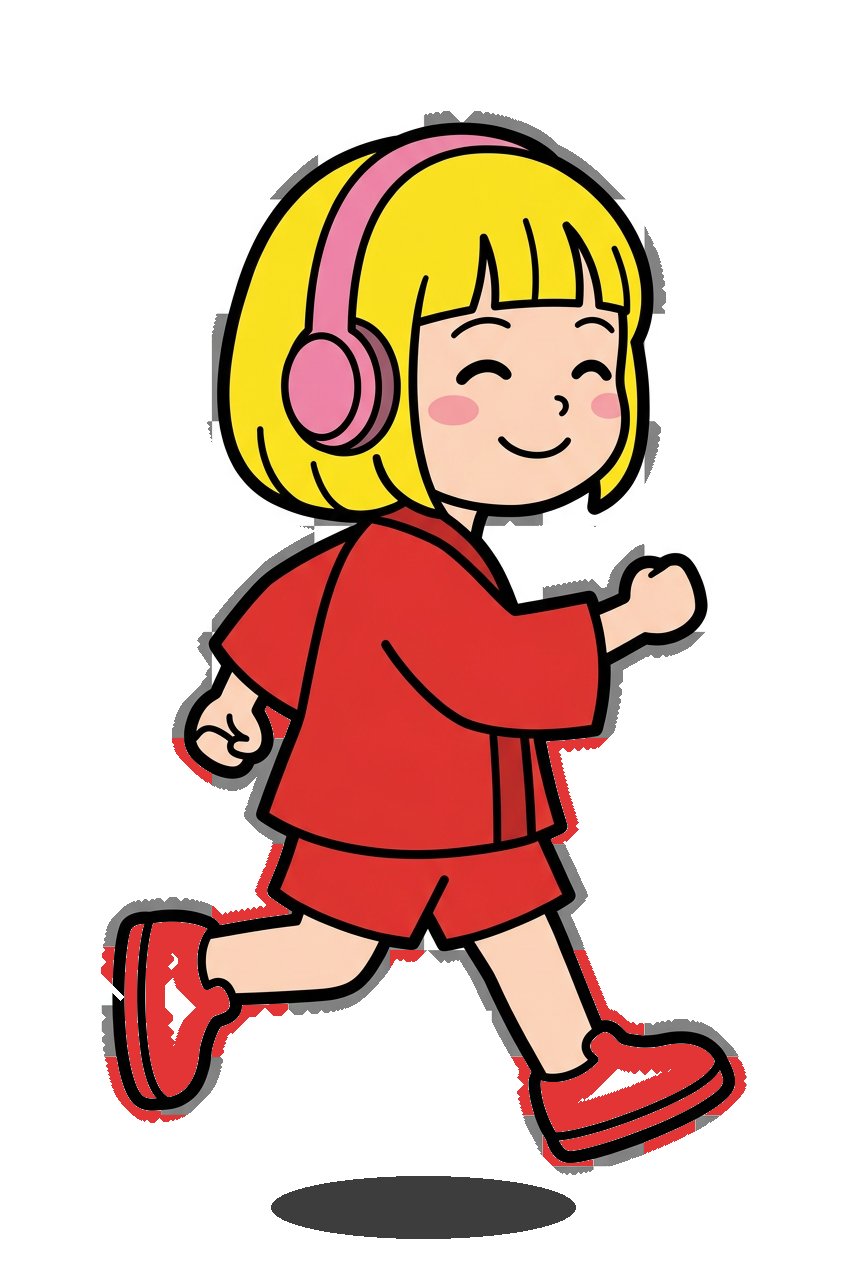
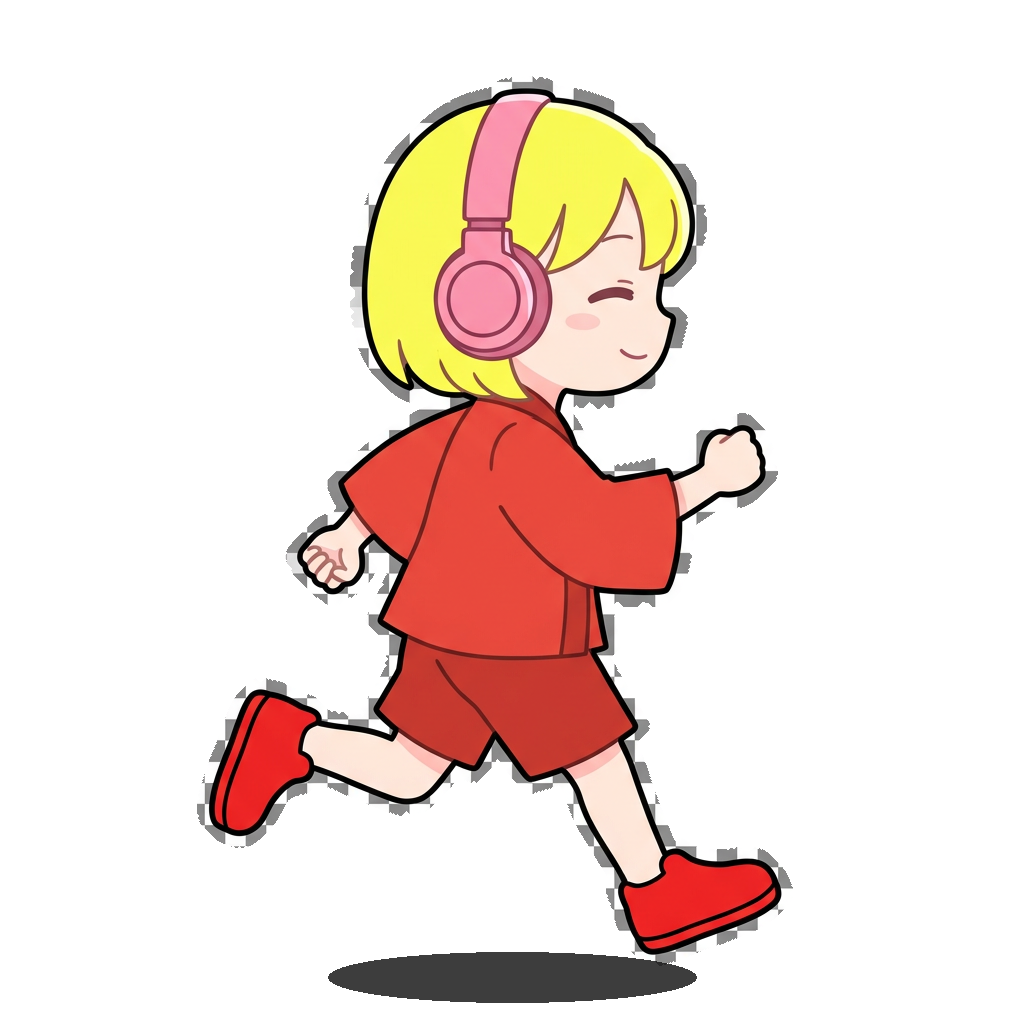
feat(sprite): nano-banana で赤靴 sprite を 10 枚再生成 (脚周り赤縁を根絶)
【背景】
PR #19 (red-v8) では「白いハロー除外 + 全 pose の靴完全塗り」を画像処理だけで
両立できず、脚周辺に細い赤縁が残る妥協点があった (ユーザー C 案承認済)。
本 PR で nano-banana 直接生成に切替し、根本解消する。

【変更内容】
1. nano-banana で 10 枚再生成 (赤いスニーカー + 黒アウトライン明示):
   - tadakayo-front-idle, tadakayo-run, tadakayo-jump
   - tadakayo-back-{idle,run,jump}
   - tadakayo-side-left-{idle,run,jump,crouch}
   side-* 4 枚は scripts/fix-sprites.py の水平反転で派生 (合計 14 枚)
2. scripts/fix-sprites.py: step 3 (colorize_shoes_red) を main() から除去
   - 関数本体は backward compat 用に残存
   - 旧実装はアルファ境界の白ハローを大連結成分として誤検出し赤化していた
3. .gitignore に generated-images/ (raw nano-banana 中間生成物) + .serena/ 追加

【検証】
- npm run typecheck: PASS
- npm run build: PASS (bundle size 変化なし、sprites は public/ で別管理)
- Playwright で localhost dev server を起動し、タダレク広場で
  プレイヤーが赤靴+黒アウトラインで表示されることを目視確認

🤖 Generated with [Claude Code](https://claude.com/claude-code)

diff --git a/scripts/fix-sprites.py b/scripts/fix-sprites.py
@@ -1,19 +1,23 @@
 #!/usr/bin/env python3
 """
-スプライト整合化 + 靴シャドウ強制 + 靴赤色化 (Phase 5-E / Phase 5-F)
+スプライト整合化 + 靴シャドウ強制 (Phase 5-E / Phase 5-F / Phase 6 sprite refresh)
 
 問題:
 1. tadakayo-side-idle.png / tadakayo-side-run.png が「右向き」になっておらず、
    実際は左向き or 正面気味の絵が混じっていた → 右移動時に違和感
 2. 全 sprite で run/jump 系の靴透明 (下端中央 opaque 0-12%) → 走ったり跳んだりすると靴が消える
-3. 白いスニーカーが背景の白チェッカー柄と区別がつかず、透過処理で部分消失
 
 対処:
 1. 全 side-{pose}.png を side-left-{pose}.png の水平反転で再生成 (左右一貫性確保)
 2. 全 14 sprite (front/back/sideLeft/sideRight × idle/run/jump/crouch) の下端中央に
-   黒い楕円フットシャドウを強制描画 → 靴がなくても「足元に影」として自然に見える
-3. 下端 30% 領域内の白いピクセルをブランド赤 (#e33535) に置換 → 透過リスクを根絶
-   + ブランドカラーとの整合 (短パン領域は下端 30% 外なので影響なし)
+   黒い楕円フットシャドウを強制描画 → 接地点を明示
+
+履歴メモ:
+- 旧 step 3 「白い靴を赤に置換 (colorize_shoes_red)」は nano-banana 側で「赤靴 +
+  黒アウトライン」を直接生成する方針に切り替えたため除去 (Phase 6 sprite refresh)。
+  関数本体は backward compat 用に残してあるが main() からは呼ばれない。
+  ※ 旧実装は除去対象だった「白いハロー (アルファ境界の連結成分)」を誤検出し、
+    脚周辺に細い赤縁が残る既知の妥協点があった。nano-banana 直接生成で解消。
 
 使用法:
     python3 scripts/fix-sprites.py
@@ -248,16 +252,8 @@ def main() -> int:
         result = "OK" if after >= 30.0 else "WARN"
         print(f"  [{result}] {name:35s}  {before:5.1f}%  →  {after:5.1f}%  [{status}]")
 
-    # 3. 靴の白を赤 (#e33535) に置換 (冪等、PNG metadata sentinel)
-    print("\n=== Step 3: 靴を赤色化 (下端 30% 内の白 → #e33535、冪等) ===")
-    print(f"{'sprite':40s}  changed_px  status")
-    print("-" * 70)
-    for name in SPRITES_FOR_SHADOW:
-        path = os.path.join(IMG_DIR, name)
-        if not os.path.exists(path):
-            continue
-        changed, status = colorize_shoes_red(path)
-        print(f"  {name:40s}  {changed:8d}  [{status}]")
+    # Step 3 (旧 colorize_shoes_red) は nano-banana 直接生成に置き換え、main() から除去。
+    # 関数定義は backward compat 用に残存。
 
     print("\nDone." + (f" ({len(missing)} missing)" if missing else ""))
     return 1 if missing else 0
